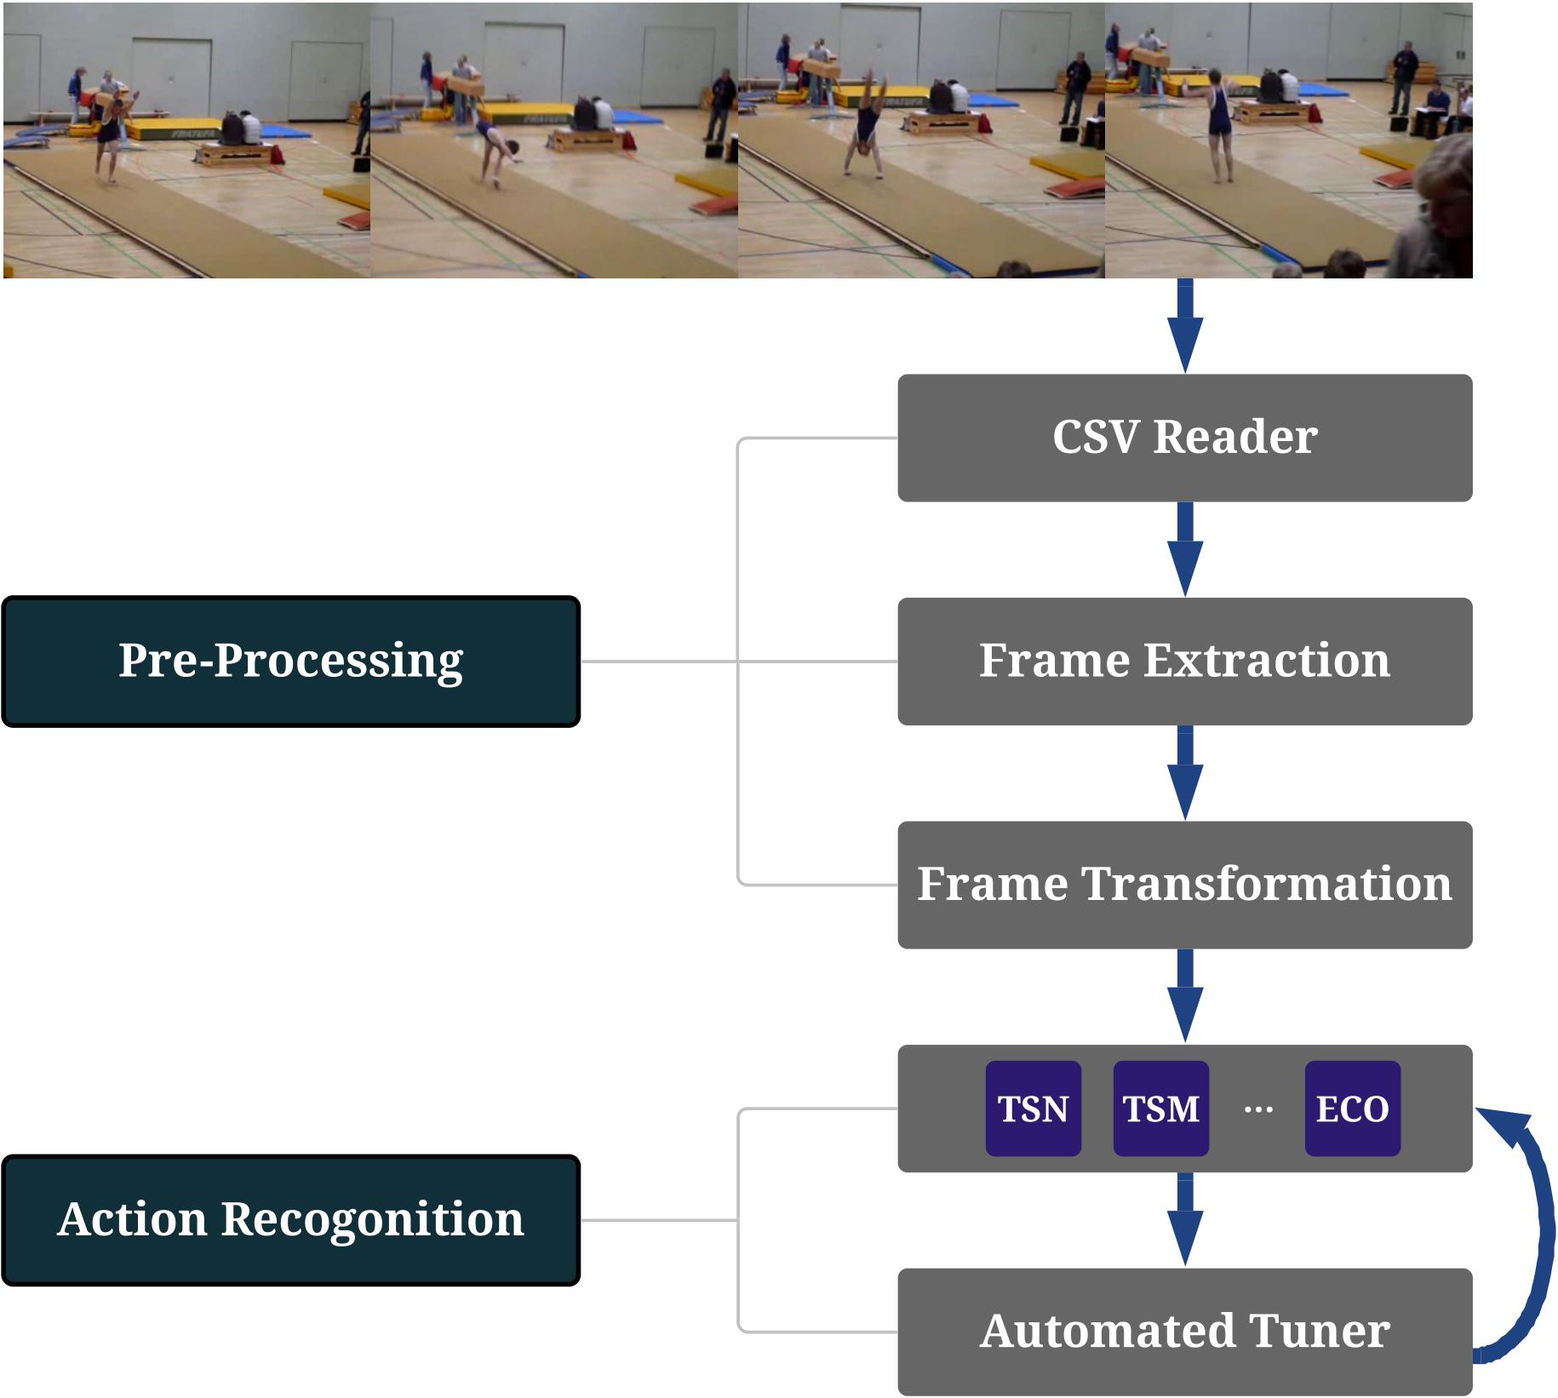
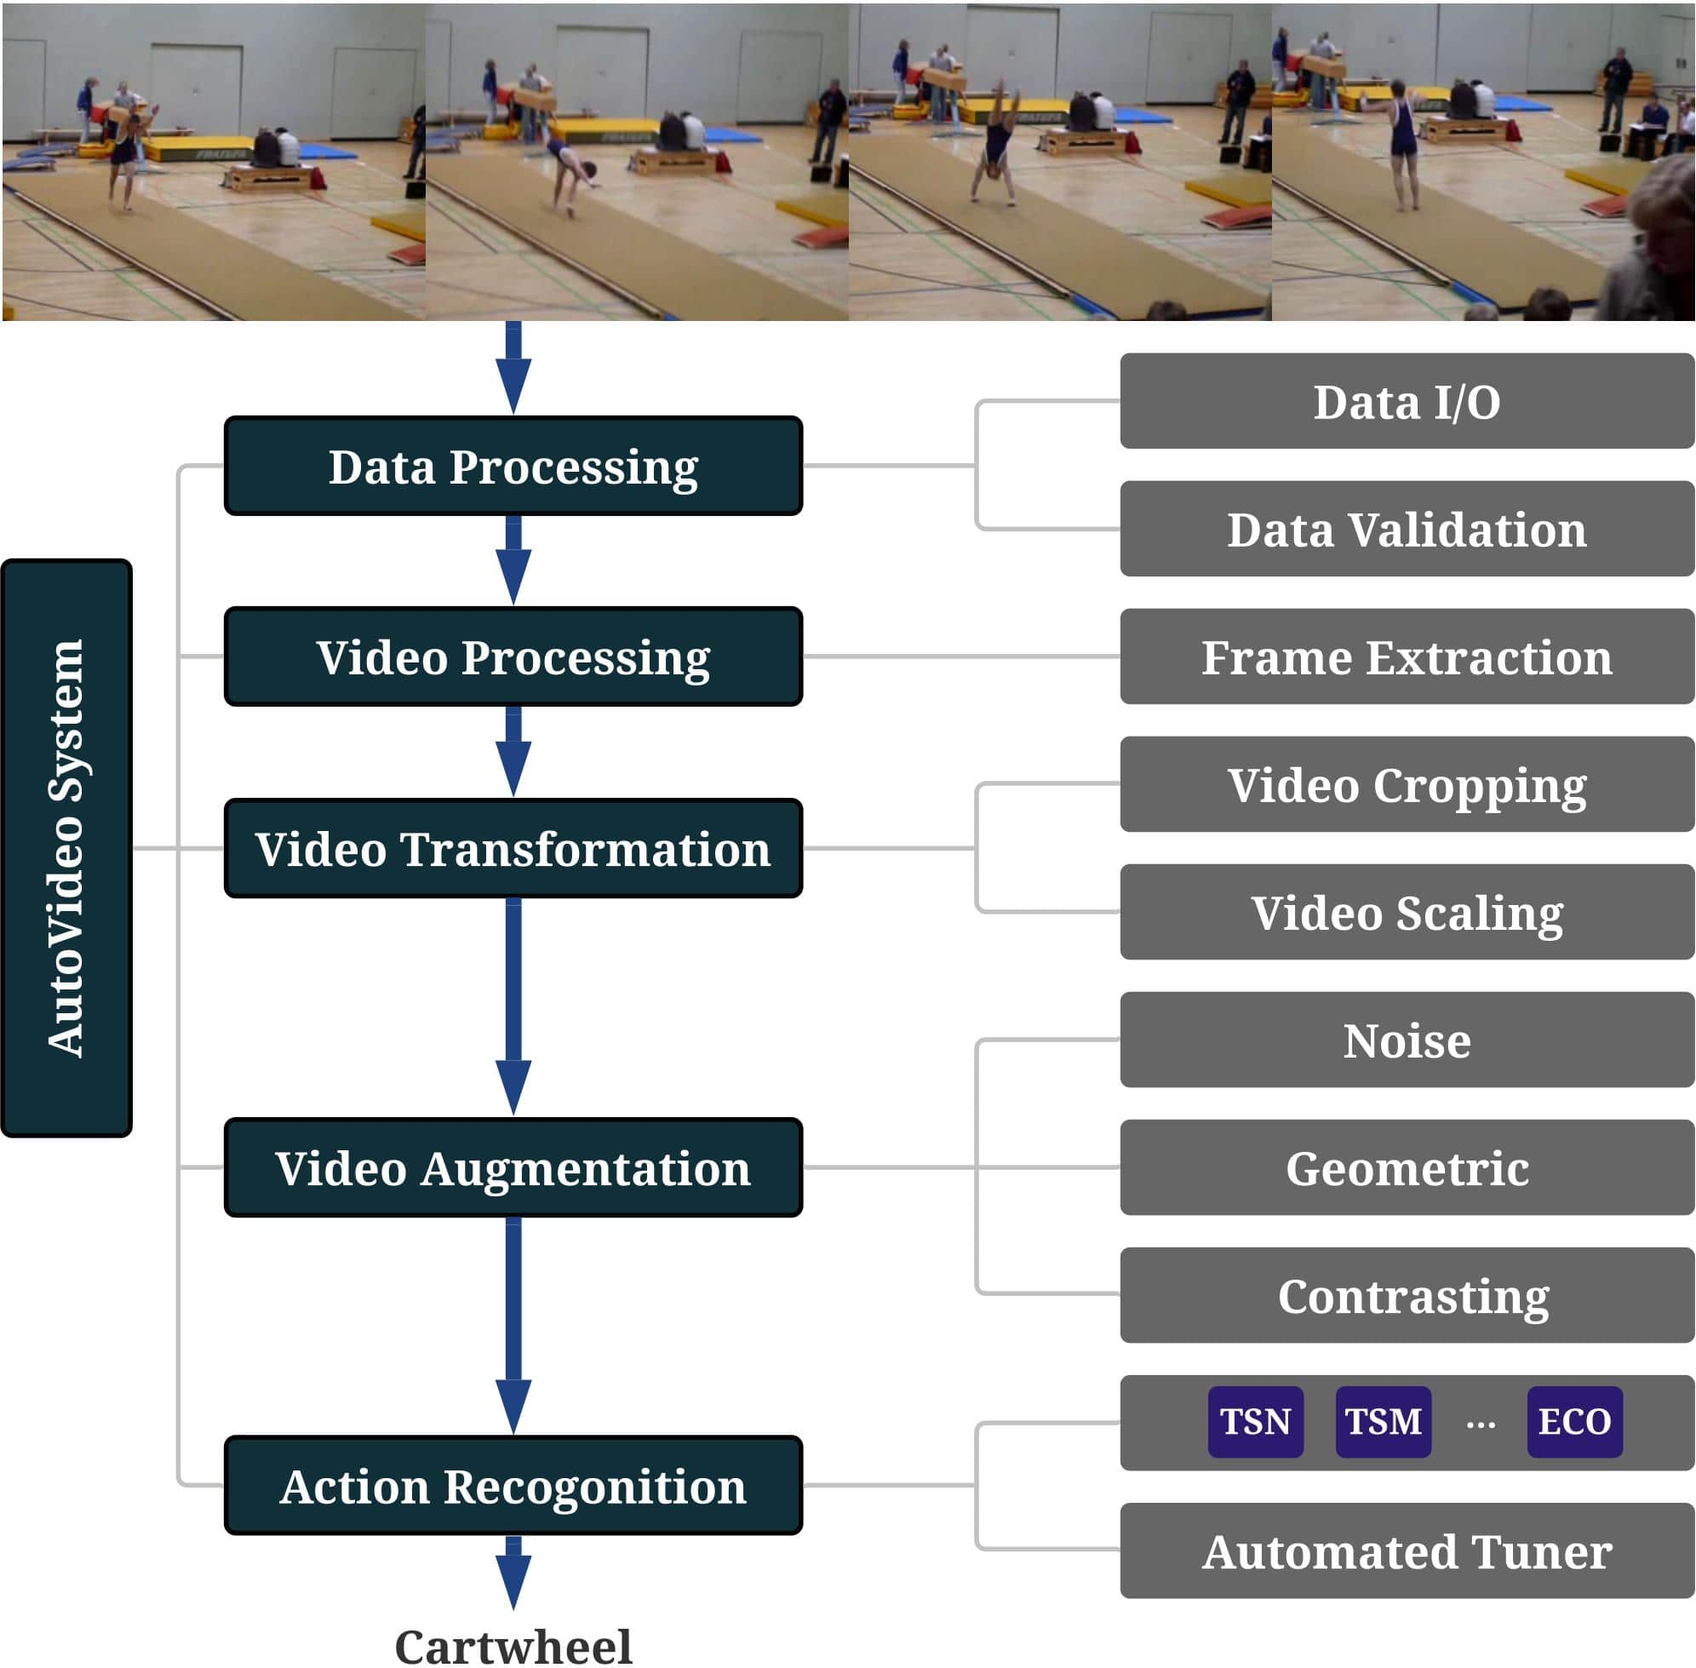
one aug

diff --git a/examples/test_augmentation.py b/examples/test_augmentation.py
@@ -1,0 +1,146 @@
+import os
+import argparse
+
+import pandas as pd
+
+def argsparser():
+    parser = argparse.ArgumentParser("Fitting a model for video recognition")
+    parser.add_argument('--aug', type=str, default='meta_channel_shuffle')
+    parser.add_argument('--alg', type=str, default='tsn',
+            choices=['tsn', 'tsm', 'i3d', 'eco', 'eco_full', 'c3d', 'r2p1d', 'r3d', 'stgcn'])
+    parser.add_argument('--pretrained', action='store_true')
+    parser.add_argument('--gpu', help='Which gpu device to use. Empty string for CPU', type=str, default='0')
+    parser.add_argument('--data_dir', help='The path of CSV file', type=str, default='datasets/hmdb6/')
+    parser.add_argument('--log_path', help='The path of saving logs', type=str, default='log.txt')
+    parser.add_argument('--save_path', help='The path for saving the trained pipeline', type=str, default='fitted_pipeline')
+
+    return parser
+
+def test_augmentation(config, augmentation_method="channel_shuffle"):
+    """Build a pipline based on the config
+    """
+    from d3m import index
+    from d3m.metadata.base import ArgumentType
+    from d3m.metadata.pipeline import Pipeline, PrimitiveStep
+    algorithm = config.pop('algorithm', None)
+    # Creating pipeline
+    pipeline_description = Pipeline()
+    pipeline_description.add_input(name='inputs')
+
+    #Step 0: Denormalise
+    step_0 = PrimitiveStep(primitive=index.get_primitive('d3m.primitives.autovideo.common.denormalize'))
+    step_0.add_argument(name='inputs', argument_type=ArgumentType.CONTAINER, data_reference='inputs.0')
+    step_0.add_output('produce')
+    pipeline_description.add_step(step_0)
+
+    #Step 1: Dataset to DataFrame
+    step_1 = PrimitiveStep(primitive=index.get_primitive('d3m.primitives.autovideo.common.dataset_to_dataframe'))
+    step_1.add_argument(name='inputs', argument_type=ArgumentType.CONTAINER, data_reference=f'steps.{step_0.index}.produce')
+    step_1.add_output('produce')
+    pipeline_description.add_step(step_1)
+
+    #Step 2: Column Parser
+    step_2 = PrimitiveStep(primitive=index.get_primitive('d3m.primitives.autovideo.common.column_parser'))
+    step_2.add_argument(name='inputs', argument_type=ArgumentType.CONTAINER, data_reference=f'steps.{step_1.index}.produce')
+    step_2.add_output('produce')
+    pipeline_description.add_step(step_2)
+
+    #Step 3: Extract columns by semantic types - Attributes
+    step_3 = PrimitiveStep(primitive=index.get_primitive('d3m.primitives.autovideo.common.extract_columns_by_semantic_types'))
+    step_3.add_argument(name='inputs', argument_type=ArgumentType.CONTAINER, data_reference=f'steps.{step_2.index}.produce')
+    step_3.add_output('produce')
+    step_3.add_hyperparameter(name='semantic_types', argument_type=ArgumentType.VALUE,
+                                      data=['https://metadata.datadrivendiscovery.org/types/Attribute'])
+    pipeline_description.add_step(step_3)
+
+    #Step 4: Extract Columns by semantic types - Target
+    step_4 = PrimitiveStep(primitive=index.get_primitive('d3m.primitives.autovideo.common.extract_columns_by_semantic_types'))
+    step_4.add_argument(name='inputs', argument_type=ArgumentType.CONTAINER, data_reference=f'steps.{step_1.index}.produce')
+    step_4.add_output('produce')
+    step_4.add_hyperparameter(name='semantic_types', argument_type=ArgumentType.VALUE,
+                                      data=['https://metadata.datadrivendiscovery.org/types/TrueTarget'])
+    pipeline_description.add_step(step_4)
+
+    #Step 5: Extract frames by extension / directly load numpy
+    if algorithm == 'stgcn':
+        step_5 = PrimitiveStep(primitive=index.get_primitive('d3m.primitives.autovideo.common.numpy_loader'))
+    else:
+        step_5 = PrimitiveStep(primitive=index.get_primitive('d3m.primitives.autovideo.common.extract_frames'))
+    step_5.add_argument(name='inputs', argument_type=ArgumentType.CONTAINER, data_reference=f'steps.{step_3.index}.produce')
+    step_5.add_output('produce')
+    pipeline_description.add_step(step_5)
+
+    # Step 6: Video Augmentation
+    alg_python_path = 'd3m.primitives.autovideo.augmentation.' + augmentation_method
+    step_6 = PrimitiveStep(primitive=index.get_primitive(alg_python_path))
+    step_6.add_argument(name='inputs', argument_type=ArgumentType.CONTAINER, data_reference=f'steps.{step_5.index}.produce')
+    #for key, value in config.items():
+    #    step_6.add_hyperparameter(name=key, argument_type=ArgumentType.VALUE, data=value)
+    step_6.add_output('produce')
+    pipeline_description.add_step(step_6)
+
+    #Step 7: Video primitive
+    alg_python_path = 'd3m.primitives.autovideo.recognition.' + algorithm
+    step_7 = PrimitiveStep(primitive=index.get_primitive(alg_python_path))
+    step_7.add_argument(name='inputs', argument_type=ArgumentType.CONTAINER, data_reference=f'steps.{step_6.index}.produce')
+    step_7.add_argument(name='outputs', argument_type=ArgumentType.CONTAINER, data_reference=f'steps.{step_4.index}.produce')
+    # Add hyperparameters
+    for key, value in config.items():
+        step_7.add_hyperparameter(name=key, argument_type=ArgumentType.VALUE, data=value)
+    step_7.add_output('produce')
+    pipeline_description.add_step(step_7)
+
+    #Step 8: Construct the predictions
+    step_8 = PrimitiveStep(primitive=index.get_primitive('d3m.primitives.autovideo.common.construct_predictions'))
+    step_8.add_argument(name='inputs', argument_type=ArgumentType.CONTAINER, data_reference=f'steps.{step_7.index}.produce')
+    step_8.add_argument(name='reference', argument_type=ArgumentType.CONTAINER, data_reference=f'steps.{step_2.index}.produce')
+    step_8.add_output('produce')
+    step_8.add_hyperparameter(name = 'use_columns', argument_type=ArgumentType.VALUE, data = [0,1])
+    pipeline_description.add_step(step_8)
+
+    # Final Output
+    pipeline_description.add_output(name='output predictions', data_reference=f'steps.{step_8.index}.produce')
+
+    return pipeline_description
+
+
+def run(args):
+    # Set the logger path
+    from autovideo.utils import set_log_path, logger
+    set_log_path(args.log_path)
+
+    train_table_path = os.path.join(args.data_dir, 'train.csv')
+    train_media_dir = os.path.join(args.data_dir, 'media')
+    target_index = 2
+
+    from autovideo import fit, compute_accuracy_with_preds
+    # Read the CSV file
+    train_dataset = pd.read_csv(train_table_path)
+
+    # Build pipeline based on configs
+    # Here we can specify the hyperparameters defined in each primitive
+    # The default hyperparameters will be used if not specified
+    config = {
+        "algorithm": args.alg,
+        "load_pretrained": args.pretrained,
+    }
+    pipeline = test_augmentation(config, augmentation_method=args.aug)
+
+    # Fit
+    _, fitted_pipeline = fit(train_dataset=train_dataset,
+                             train_media_dir=train_media_dir,
+                             target_index=target_index,
+                             pipeline=pipeline)
+
+    # Save the fitted pipeline
+    import torch
+    torch.save(fitted_pipeline, args.save_path)
+
+if __name__ == '__main__':
+    parser = argsparser()
+    args = parser.parse_args()
+    os.environ["CUDA_VISIBLE_DEVICES"] = args.gpu
+
+    # Fit and produce
+    run(args)
+

diff --git a/autovideo/augmentation/meta/channel_shuffle_primitive.py b/autovideo/augmentation/meta/channel_shuffle_primitive.py
@@ -1,0 +1,58 @@
+'''
+Copyright 2021 D3M Team
+Copyright (c) 2021 DATA Lab at Texas A&M University
+
+Licensed under the Apache License, Version 2.0 (the "License");
+you may not use this file except in compliance with the License.
+You may obtain a copy of the License at
+
+    http://www.apache.org/licenses/LICENSE-2.0
+
+Unless required by applicable law or agreed to in writing, software
+distributed under the License is distributed on an "AS IS" BASIS,
+WITHOUT WARRANTIES OR CONDITIONS OF ANY KIND, either express or implied.
+See the License for the specific language governing permissions and
+limitations under the License.
+'''
+
+from d3m import container
+from d3m.metadata import hyperparams
+import imgaug.augmenters as iaa
+
+from autovideo.utils import construct_primitive_metadata
+from autovideo.base.augmentation_base import AugmentationPrimitiveBase
+
+__all__ = ('ChannelShufflePrimitive',)
+
+Inputs = container.DataFrame
+
+class Hyperparams(hyperparams.Hyperparams):
+    p = hyperparams.Constant[float](
+        default=0.35,
+        description='Minimum workers to extract frames simultaneously',
+        semantic_types=['https://metadata.datadrivendiscovery.org/types/ControlParameter'],
+    )
+
+    seed = hyperparams.Constant[int](
+        default=0,
+        description='Minimum workers to extract frames simultaneously',
+        semantic_types=['https://metadata.datadrivendiscovery.org/types/ControlParameter'],
+    )
+
+
+
+class ChannelShufflePrimitive(AugmentationPrimitiveBase[Inputs, Hyperparams]):
+    """
+    A primitive which extracts frames from media dir based on video extension.
+    """
+
+    metadata = construct_primitive_metadata("augmentation", "meta_channel_shuffle")
+
+    def _get_function(self):
+        """
+        set up function and parameter of functions
+        """
+        p = self.hyperparams["p"]
+        seed = self.hyperparams["seed"]
+        return iaa.ChannelShuffle(p=0, seed=seed)
+

diff --git a/autovideo/base/augmentation_base.py b/autovideo/base/augmentation_base.py
@@ -1,0 +1,48 @@
+'''
+Copyright 2021 D3M Team
+Copyright (c) 2021 DATA Lab at Texas A&M University
+
+Licensed under the Apache License, Version 2.0 (the "License");
+you may not use this file except in compliance with the License.
+You may obtain a copy of the License at
+
+    http://www.apache.org/licenses/LICENSE-2.0
+
+Unless required by applicable law or agreed to in writing, software
+distributed under the License is distributed on an "AS IS" BASIS,
+WITHOUT WARRANTIES OR CONDITIONS OF ANY KIND, either express or implied.
+See the License for the specific language governing permissions and
+limitations under the License.
+'''
+from d3m import container
+from d3m.metadata import hyperparams
+from d3m.primitive_interfaces.base import *
+from d3m.primitive_interfaces import base, transformer
+import abc
+
+Outputs = container.DataFrame
+__all__ = ("AugmentationPrimitiveBase", "AugmentationHyperparamsBase")
+
+
+class AugmentationHyperparamsBase(hyperparams.Hyperparams):
+    pass
+
+class AugmentationPrimitiveBase(transformer.TransformerPrimitiveBase[Inputs, Outputs, Hyperparams]):
+
+    def __init__(self, *, hyperparams: Hyperparams) -> None:
+        super().__init__(hyperparams=hyperparams)
+
+    def produce(self, *, inputs: Inputs, timeout: float = None, iterations: int = None) -> base.CallResult[Outputs]:
+        function = self._get_function() 
+        aug = [function]
+        aug.extend(["" for i in range(inputs.shape[0]-1)]) # only store in the first row
+        inputs["augmentation"] = aug
+        output = Outputs(inputs)
+        return base.CallResult(output)
+
+    @abc.abstractmethod
+    def _get_function(self):
+        """
+        set up function and parameter of functions
+        """
+

diff --git a/autovideo/utils/training_utils.py b/autovideo/utils/training_utils.py
@@ -67,13 +67,13 @@ def get_video_loader(video_list, modality, num_segments, batch_size, num_workers
     else:
         if modality == 'RGB':
             augmentation = torchvision.transforms.Compose([GroupMultiScaleCrop(crop_size, [1, .875, .75, .66]),
-                                                   GroupRandomHorizontalFlip(is_flow=False)])
+                                                   GroupRandomHorizontalFlip(is_flow=False), GroupAugmentation(train_augmentation)])
         elif modality == 'Flow':
             augmentation = torchvision.transforms.Compose([GroupMultiScaleCrop(crop_size, [1, .875, .75]),
-                                                   GroupRandomHorizontalFlip(is_flow=True)])
+                                                   GroupRandomHorizontalFlip(is_flow=True), GroupAugmentation(train_augmentation)])
         elif modality == 'RGBDiff':
             augmentation = torchvision.transforms.Compose([GroupMultiScaleCrop(crop_size, [1, .875, .75]),
-                                                   GroupRandomHorizontalFlip(is_flow=False)])
+                                                   GroupRandomHorizontalFlip(is_flow=False), GroupAugmentation(train_augmentation)])
     
     data_loader = torch.utils.data.DataLoader(
         VideoDataSet(

diff --git a/autovideo/recognition/c3d_primitive.py b/autovideo/recognition/c3d_primitive.py
@@ -167,7 +167,7 @@ class C3DPrimitive(SupervisedPrimitiveBase[Inputs, Outputs, Params, Hyperparams]
                                         scale_size=self.model.scale_size,
                                         input_mean=self.model.input_mean,
                                         input_std=self.model.input_std,
-                                        train_augmentation=True,
+                                        train_augmentation=self._augmentation,
                                         modality=self.hyperparams['modality'],
                                         num_segments=self.hyperparams['num_segments'],
                                         batch_size=self.hyperparams['batch_size'],

diff --git a/autovideo/recognition/eco_full_primitive.py b/autovideo/recognition/eco_full_primitive.py
@@ -168,7 +168,7 @@ class ECOFullPrimitive(SupervisedPrimitiveBase[Inputs, Outputs, Params, Hyperpar
                                         scale_size=self.model.scale_size,
                                         input_mean=self.model.input_mean,
                                         input_std=self.model.input_std,
-                                        train_augmentation=True,
+                                        train_augmentation=self._augmentation,
                                         modality=self.hyperparams['modality'],
                                         num_segments=self.hyperparams['num_segments'],
                                         batch_size=self.hyperparams['batch_size'],

diff --git a/autovideo/recognition/eco_primitive.py b/autovideo/recognition/eco_primitive.py
@@ -164,7 +164,7 @@ class ECOPrimitive(SupervisedPrimitiveBase[Inputs, Outputs, Params, Hyperparams]
                                         scale_size=self.model.scale_size,
                                         input_mean=self.model.input_mean,
                                         input_std=self.model.input_std,
-                                        train_augmentation=True,
+                                        train_augmentation=self._augmentation,
                                         modality=self.hyperparams['modality'],
                                         num_segments=self.hyperparams['num_segments'],
                                         batch_size=self.hyperparams['batch_size'],

diff --git a/autovideo/recognition/i3d_primitive.py b/autovideo/recognition/i3d_primitive.py
@@ -163,7 +163,7 @@ class I3DPrimitive(SupervisedPrimitiveBase[Inputs, Outputs, Params, Hyperparams]
                                         scale_size=self.model.scale_size,
                                         input_mean=self.model.input_mean,
                                         input_std=self.model.input_std,
-                                        train_augmentation=True,
+                                        train_augmentation=self._augmentation,
                                         modality=self.hyperparams['modality'],
                                         num_segments=self.hyperparams['num_segments'],
                                         batch_size=self.hyperparams['batch_size'],

diff --git a/autovideo/recognition/tsm_primitive.py b/autovideo/recognition/tsm_primitive.py
@@ -143,7 +143,7 @@ class TSMPrimitive(SupervisedPrimitiveBase[Inputs, Outputs, Params, Hyperparams]
                                         scale_size=self.model.scale_size,
                                         input_mean=self.model.input_mean,
                                         input_std=self.model.input_std,
-                                        train_augmentation=True,
+                                        train_augmentation=self._augmentation,
                                         modality=self.hyperparams['modality'],
                                         num_segments=self.hyperparams['num_segments'],
                                         batch_size=self.hyperparams['batch_size'],

diff --git a/autovideo/recognition/tsn_primitive.py b/autovideo/recognition/tsn_primitive.py
@@ -143,7 +143,7 @@ class TSNPrimitive(SupervisedPrimitiveBase[Inputs, Outputs, Params, Hyperparams]
                                         scale_size=self.model.scale_size,
                                         input_mean=self.model.input_mean,
                                         input_std=self.model.input_std,
-                                        train_augmentation=True,
+                                        train_augmentation=self._augmentation,
                                         modality=self.hyperparams['modality'],
                                         num_segments=self.hyperparams['num_segments'],
                                         batch_size=self.hyperparams['batch_size'],

diff --git a/autovideo/recognition/r2p1d_primitive.py b/autovideo/recognition/r2p1d_primitive.py
@@ -189,7 +189,7 @@ class R2P1DPrimitive(SupervisedPrimitiveBase[Inputs, Outputs, Params, Hyperparam
                                         scale_size=112,
                                         input_mean=self.opt.mean,
                                         input_std=self.opt.std,
-                                        train_augmentation=True,
+                                        train_augmentation=self._augmentation,
                                         modality=self.hyperparams['modality'],
                                         num_segments=self.hyperparams['num_segments'],
                                         batch_size=self.hyperparams['batch_size'],

diff --git a/autovideo/recognition/r3d_primitive.py b/autovideo/recognition/r3d_primitive.py
@@ -184,7 +184,7 @@ class R3DPrimitive(SupervisedPrimitiveBase[Inputs, Outputs, Params, Hyperparams]
                                         scale_size=112,
                                         input_mean=self.opt.mean,
                                         input_std=self.opt.std,
-                                        train_augmentation=True,
+                                        train_augmentation=self._augmentation,
                                         modality=self.hyperparams['modality'],
                                         num_segments=self.hyperparams['num_segments'],
                                         batch_size=self.hyperparams['batch_size'],
